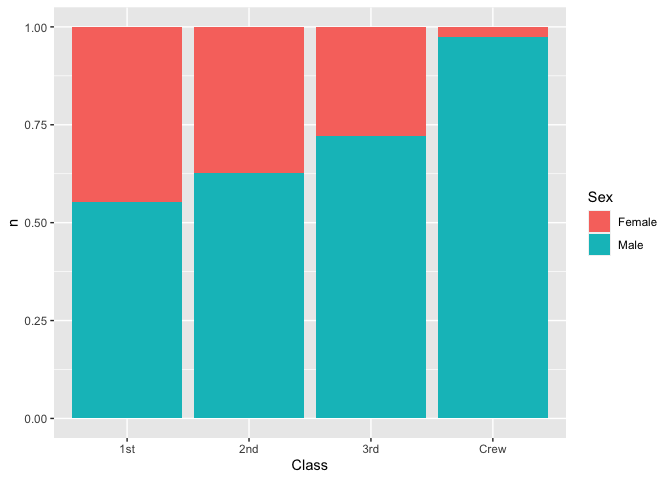
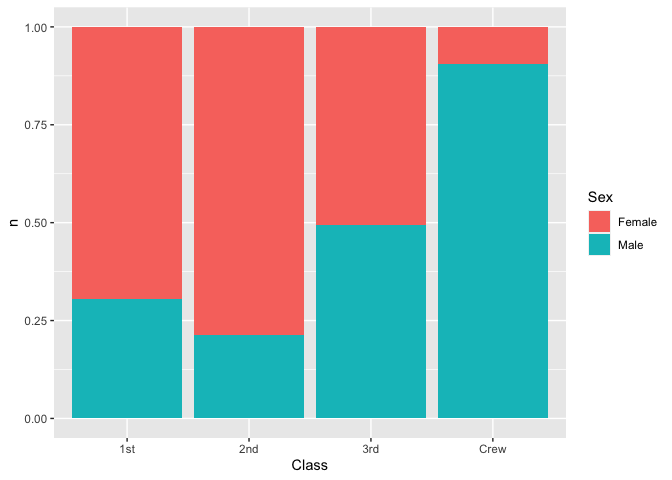
Titanic - q3 now focused only on survivors

Changed region(s): [[0.0938, 0.2812, 0.6562, 0.7188], [0.625, 0.0625, 0.8125, 0.1562]]

diff --git a/c01-titanic-assignment.md b/c01-titanic-assignment.md
@@ -85,72 +85,77 @@ below.
 
 ``` r
 ## TASK: Visualize counts against `Class` and `Sex`
-ggplot(df_titanic) +
-  geom_col(mapping = aes(x = Class, y = n, fill = Sex))
+df_titanic %>%
+  filter(Survived == "Yes") %>%
+  ggplot() +
+    geom_col(mapping = aes(x = Class, y = n, fill = Sex))
 ```
 
 ![](c01-titanic-assignment_files/figure-gfm/q3-task%20-%20class%20and%20sex%20counts,%20focused%20on%20class-1.png)<!-- -->
 
 **Observations**:
 
-  - The Titanic had more 3rd class passengers than 1st and 2nd class
-    passengers combined.
-  - 2nd class is the smallest of the classes. I would have expected 2nd
-    to be larger than 1st, but perhaps, as a luxury liner, Titanic was
-    optimizing for a relatively large 1st class, compared to 2nd?
-  - There were more crew members than any single passenger class (but as
-    a whole, there were more passengers than crew).
-  - The vast majority of the crew were male.
-  - Most passengers were male.
+  - Most survivors from 1st and 2nd class were women.
+  - 3rd class survivors were more balanced in gender.
+  - Crew survivors were mostly male.
+  - More crew survived than any other class, which surprises me
+    slightly. (Will need to compare totals for these groups.)
+  - Among paying passengers, more 1st class passengers survived than
+    from either other class.
+  - More 3rd class passengers survived than 2nd class passengers, which
+    also surprises me slightly. (Will need to compare totals for these
+    groups.)
 
 <!-- end list -->
 
 ``` r
 ## TASK: Visualize counts against `Class` and `Sex`
-ggplot(df_titanic) +
-  geom_col(mapping = aes(x = Class, y = n, fill = Sex), position = "fill")
+df_titanic %>%
+  filter(Survived == "Yes") %>%
+  ggplot() +
+    geom_col(mapping = aes(x = Class, y = n, fill = Sex), position = "fill")
 ```
 
 ![](c01-titanic-assignment_files/figure-gfm/q3-task%20-%20class%20and%20sex%20counts,%20focused%20on%20class%20proportion-1.png)<!-- -->
 
-**Observations**:
-
-  - 1st class comes the closest of any other class group to an even
-    balance of males and females, but it too had more males than
-    females.
-  - I’m wondering if 1st class passengers were more likely to be couples
-    or families for some reason, and 2nd and 3rd class had more single
-    men–what social factors would have caused this?
-
-<!-- end list -->
+**Observations**: - Proportionally, women in the richer classes (1st and
+2nd) made up more of the survivors than did those from 3rd class, and
+much more than the crew. - Without looking at the base proportions,
+though, it’s not clear what this means.
 
 ``` r
 ## TASK: Visualize counts against `Class` and `Sex`
-
-ggplot(df_titanic) +
-  geom_col(mapping = aes(x = Sex, y = n, fill = Class))
+df_titanic %>%
+  filter(Survived == "Yes") %>%
+  ggplot() +
+    geom_col(mapping = aes(x = Sex, y = n, fill = Class))
 ```
 
 ![](c01-titanic-assignment_files/figure-gfm/q3-task%20-%20class%20and%20sex%20counts,%20focused%20on%20sex-1.png)<!-- -->
 
 **Observations**:
 
-  - The ship’s male crew members alone outnumber the women and girls.
+  - Ultimately, more men than women survived, but not by much.
+  - If we exclude crew members, the reverse would be true: female
+    survivors among passengers far outnumber the male survivors in this
+    group. (It’s just the male crew members that throw things off here.)
 
 <!-- end list -->
 
 ``` r
 ## TASK: Visualize counts against `Class` and `Sex`
-
-ggplot(df_titanic) +
-  geom_col(mapping = aes(x = Sex, y = n, fill = Class), position = "fill")
+df_titanic %>% 
+  filter(Survived == "Yes") %>%
+  ggplot() +
+    geom_col(mapping = aes(x = Sex, y = n, fill = Class), position = "fill")
 ```
 
 ![](c01-titanic-assignment_files/figure-gfm/q3-task%20-%20class%20and%20sex%20counts,%20focused%20on%20sex,%20by%20proportion-1.png)<!-- -->
 
 **Observations**:
 
-  - About half of the men/boys on the Titanic were crew members.
+  - Proportionally, most female survivors came from 1st or 2nd class,
+    whereas most male survivors were crew.
 
 # Deeper Look
 
